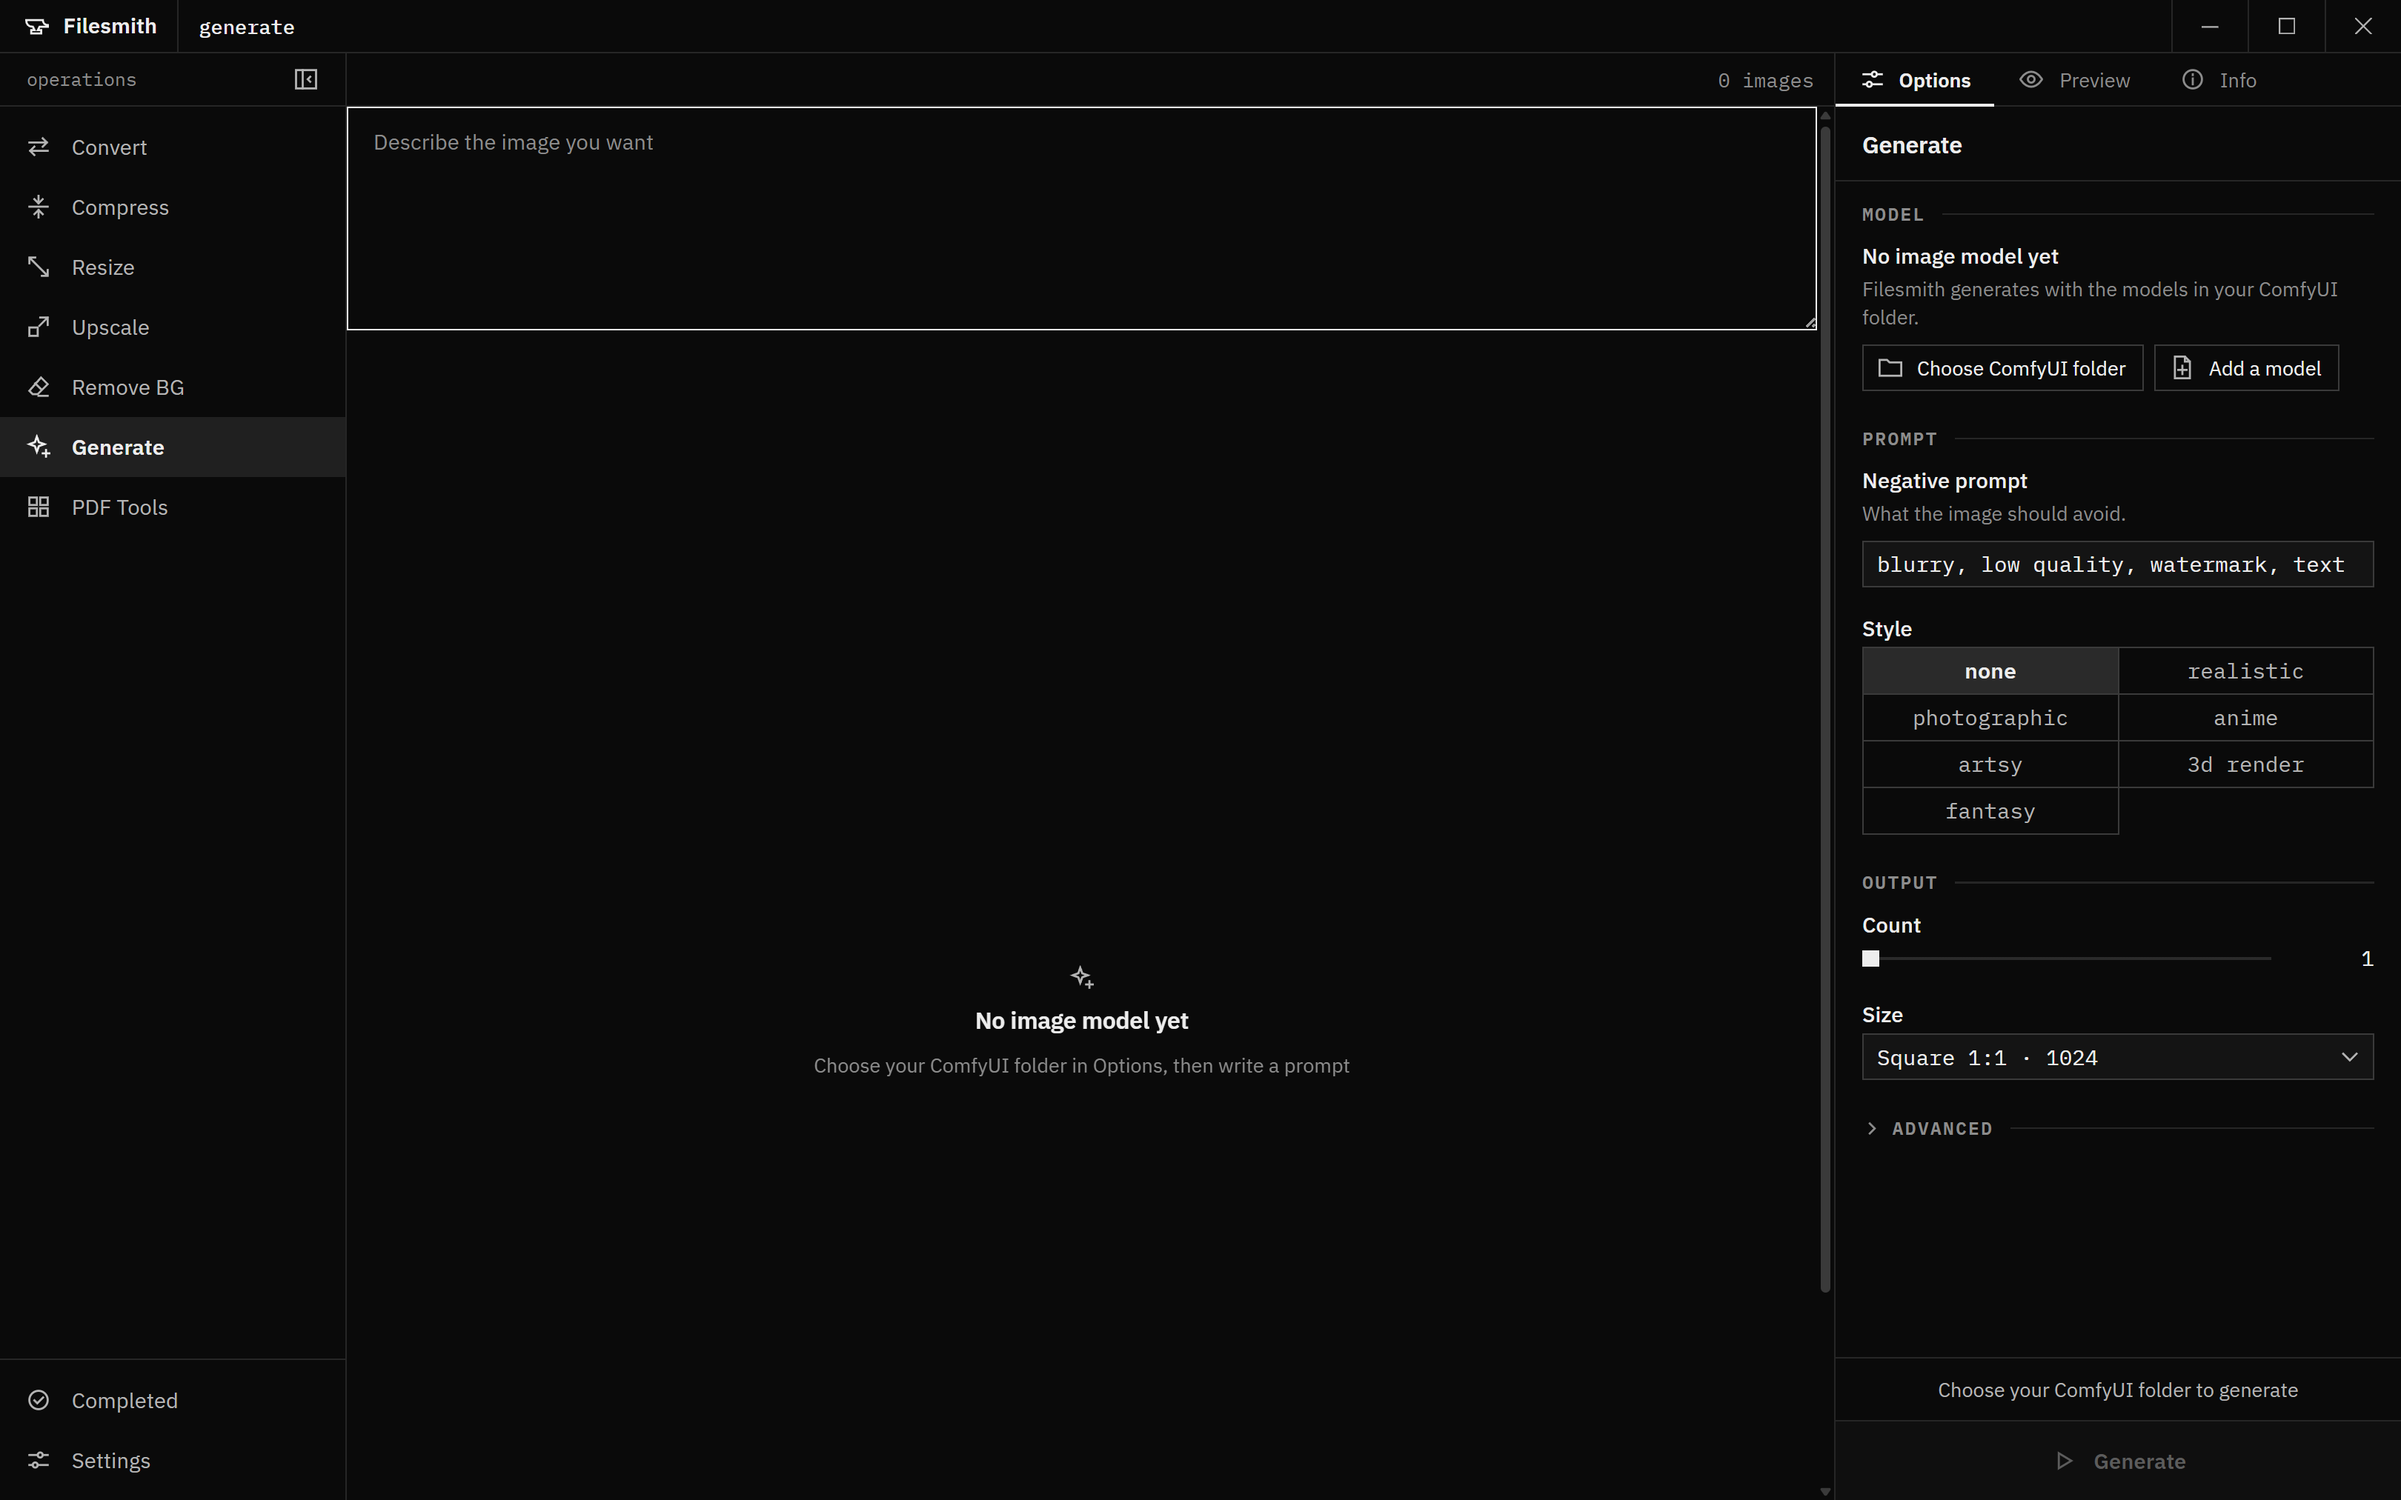
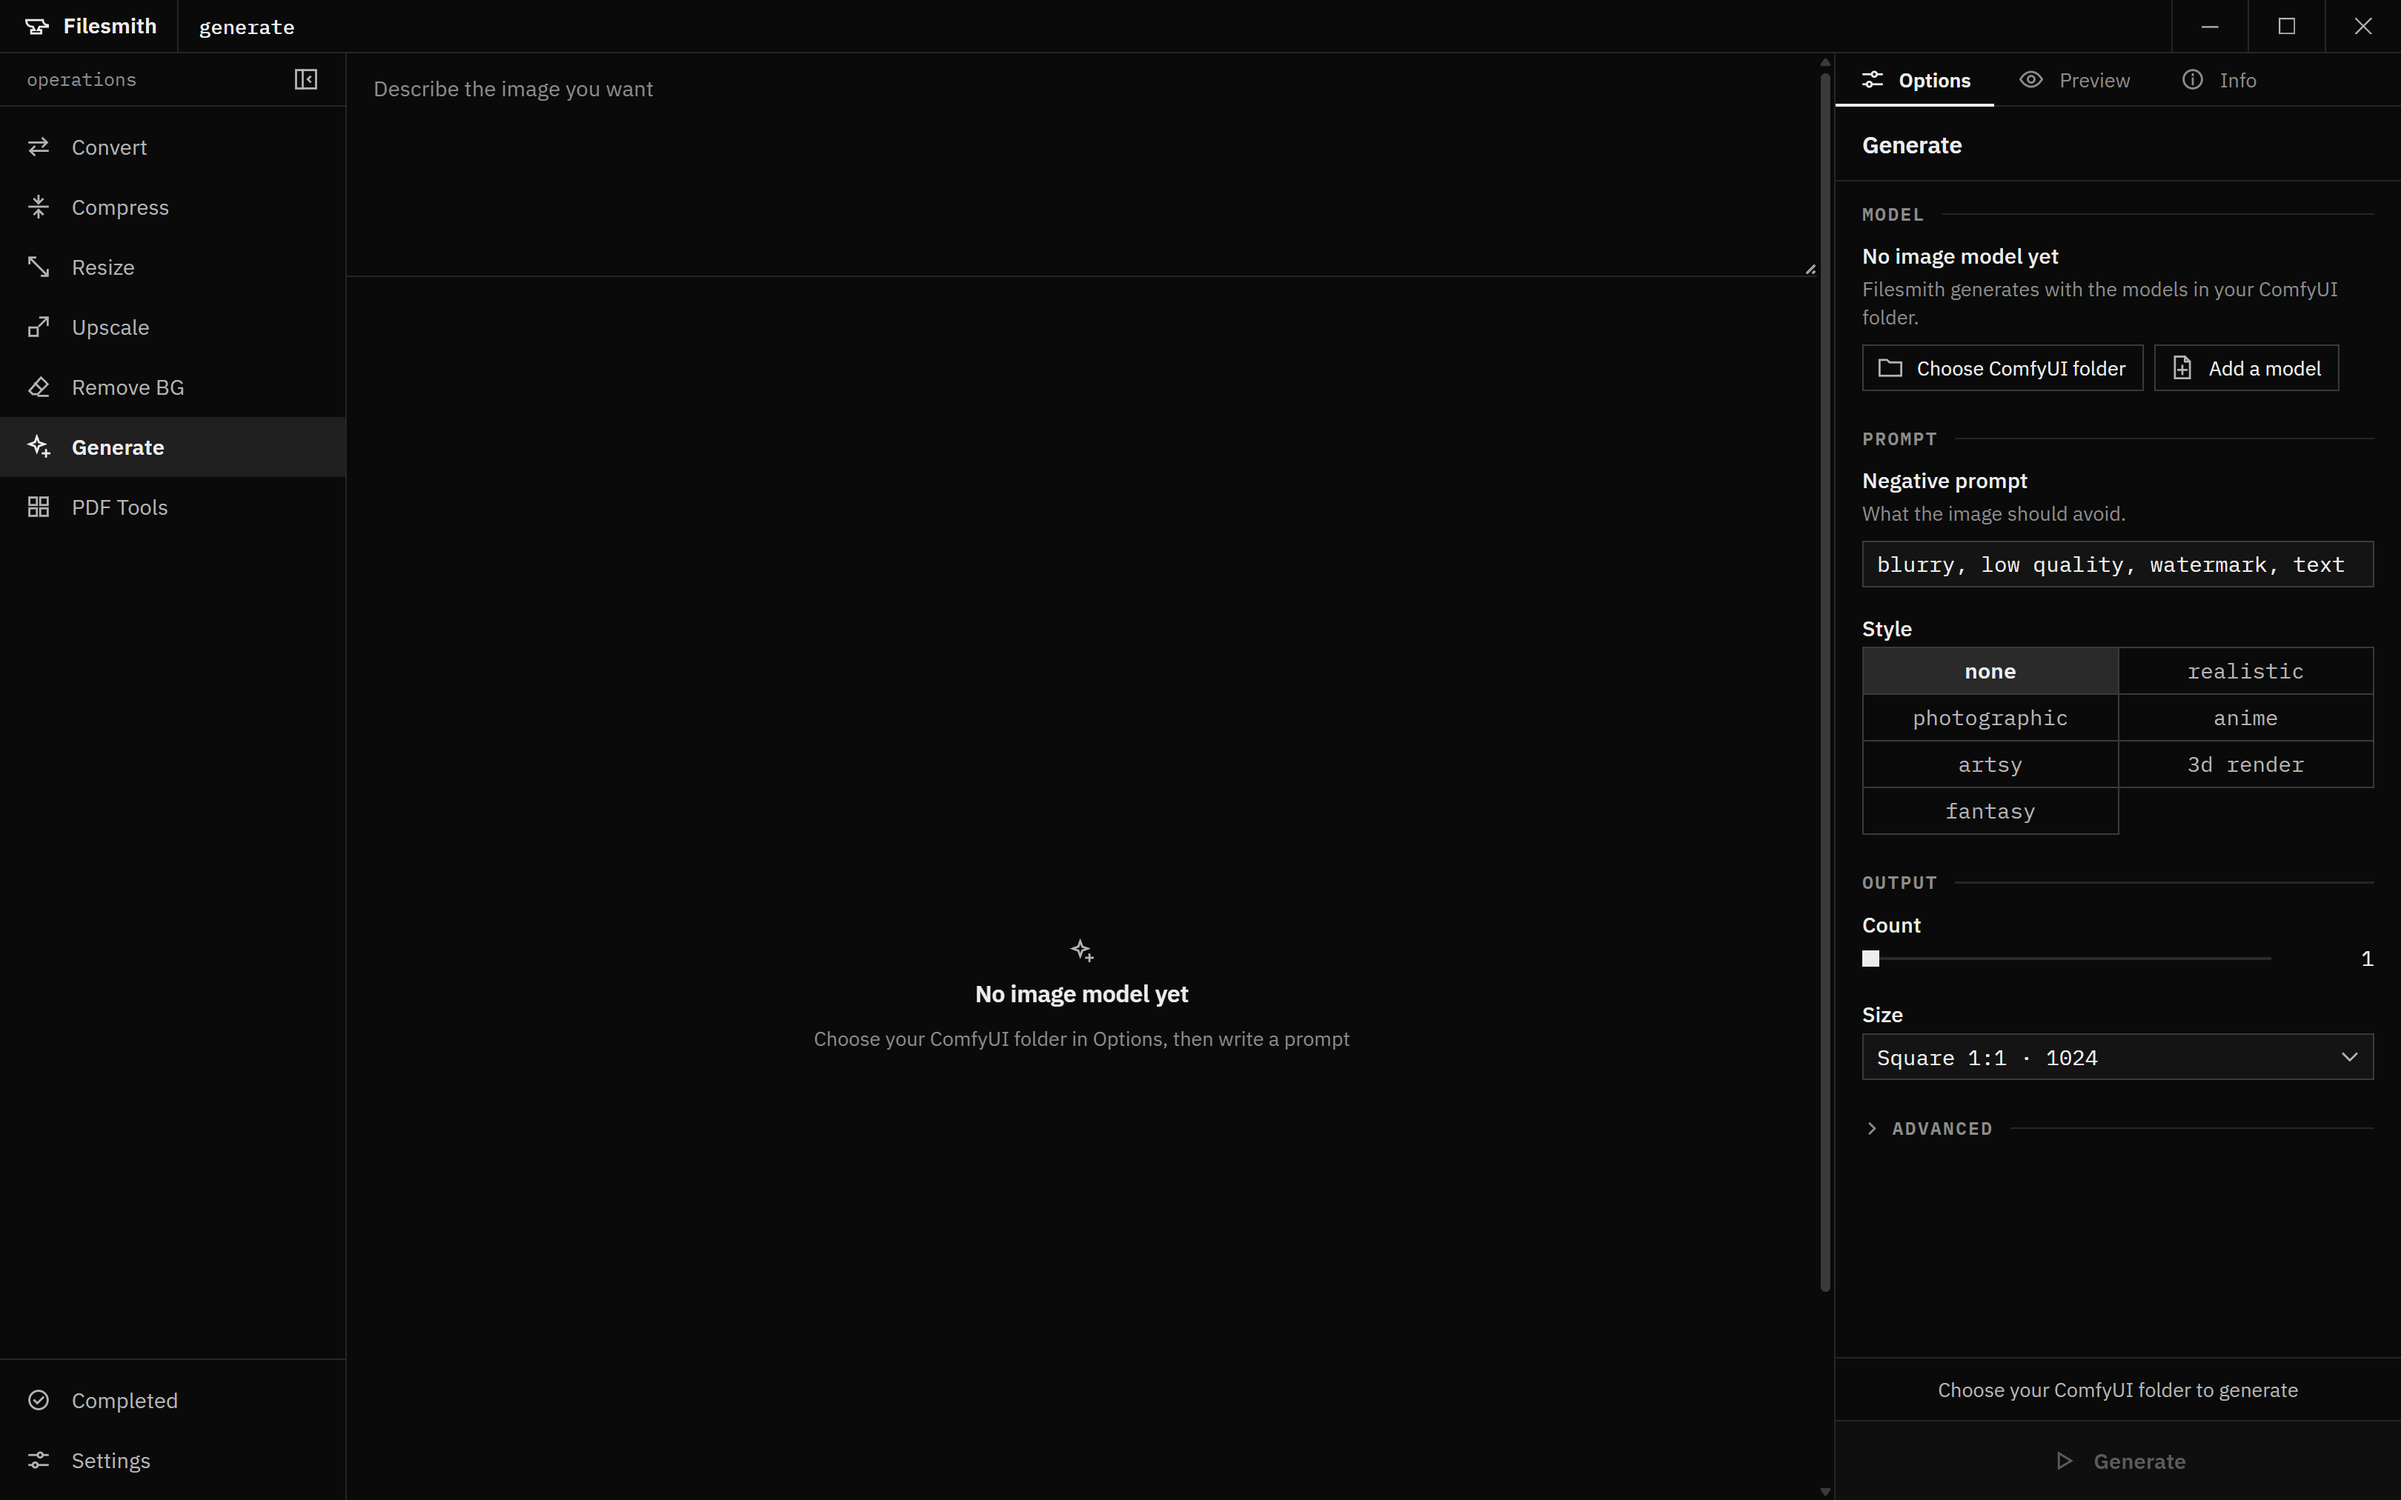
fix(generate): prompt flush under the title bar, no focus outline
Refs #38

diff --git a/src/renderer/src/components/views/GenerateView.tsx b/src/renderer/src/components/views/GenerateView.tsx
@@ -1,5 +1,4 @@
 import type { JSX } from 'react'
-import { genCountLabel } from '../options/generate/genReady'
 import { EmptyState } from '../queue/EmptyState'
 import { ProgressBar } from '../ui/ProgressBar'
 
@@ -50,16 +49,9 @@ export function GenerateView({
   )
   return (
     <>
-      {/* The row stays so the centre lines up with the inspector tabs; Run and
+      {/* No toolbar row: the prompt sits flush under the title bar, and Run and
           Stop live in the inspector footer only (owner, 2026-10-05). */}
-      <div className="toolbar" role="toolbar" aria-label="Generate actions">
-        <div className="tb-right">
-          <span className="count" aria-live="polite">
-            {genCountLabel(running, results.length)}
-          </span>
-        </div>
-      </div>
-      <div className="vbody scroll-thin">
+      <div className="vbody full scroll-thin">
         <textarea
           className="prompt"
           aria-label="Prompt"

diff --git a/e2e/generate-empty.spec.ts b/e2e/generate-empty.spec.ts
@@ -30,10 +30,9 @@ test('Generate without a model shows one next step and says why it cannot run', 
     await prompt.fill('a lighthouse at dusk')
     await expect(page.getByTestId('run')).toBeDisabled()
     await prompt.fill('')
-    // The toolbar row stays (it lines up with the inspector tabs) but holds no
-    // Generate button: Run lives in the inspector footer only.
-    const bar = page.getByRole('toolbar', { name: 'Generate actions' })
-    await expect(bar.getByRole('button')).toHaveCount(0)
+    // No toolbar row and no Generate button there: Run lives in the inspector
+    // footer only, and the prompt sits flush at the top of the centre column.
+    await expect(page.getByRole('toolbar', { name: 'Generate actions' })).toHaveCount(0)
     if (process.env['FILESMITH_SHOTS']) {
       mkdirSync(SHOTS, { recursive: true })
       await page.screenshot({ path: join(SHOTS, 'after.png') })

diff --git a/test/generate-ready.test.ts b/test/generate-ready.test.ts
@@ -1,8 +1,5 @@
 import { describe, expect, it } from 'vitest'
-import {
-  genBlockReason,
-  genCountLabel
-} from '../src/renderer/src/components/options/generate/genReady'
+import { genBlockReason } from '../src/renderer/src/components/options/generate/genReady'
 
 describe('genBlockReason', () => {
   it('does not block before the scan answers', () => {
@@ -21,13 +18,5 @@ describe('genBlockReason', () => {
     expect(genBlockReason({ models: [], comfyFolder: 'C:/ComfyUI' })).toBe(
       'Add an image model to generate'
     )
-  })
-})
-
-describe('genCountLabel', () => {
-  it('counts images and says when it is generating', () => {
-    expect(genCountLabel(false, 0)).toBe('0 images')
-    expect(genCountLabel(false, 1)).toBe('1 image')
-    expect(genCountLabel(true, 3)).toBe('Generating')
   })
 })

diff --git a/src/renderer/src/theme/views.css b/src/renderer/src/theme/views.css
@@ -227,6 +227,10 @@
 .tbtn:disabled {
   color: var(--fg-disabled);
 }
+/* A view without a toolbar row takes the whole centre column. */
+.vbody.full {
+  grid-row: 1 / -1;
+}
 .vbody {
   min-height: 0;
   overflow-y: auto;
@@ -282,9 +286,10 @@
 .prompt::placeholder {
   color: var(--fg3);
 }
-.prompt:focus {
-  outline: 1px solid var(--focus);
-  outline-offset: -1px;
+/* No focus outline: the caret shows where you type (owner, 2026-10-06). */
+.prompt:focus,
+.prompt:focus-visible {
+  outline: none;
 }
 .gen-grid {
   display: grid;

diff --git a/src/renderer/src/components/options/generate/genReady.ts b/src/renderer/src/components/options/generate/genReady.ts
@@ -8,9 +8,3 @@ export function genBlockReason(
     ? 'Add an image model to generate'
     : 'Choose your ComfyUI folder to generate'
 }
-
-/** Count line for the Generate toolbar, like the file count on other tabs. */
-export function genCountLabel(running: boolean, results: number): string {
-  if (running) return 'Generating'
-  return `${results} image${results === 1 ? '' : 's'}`
-}
